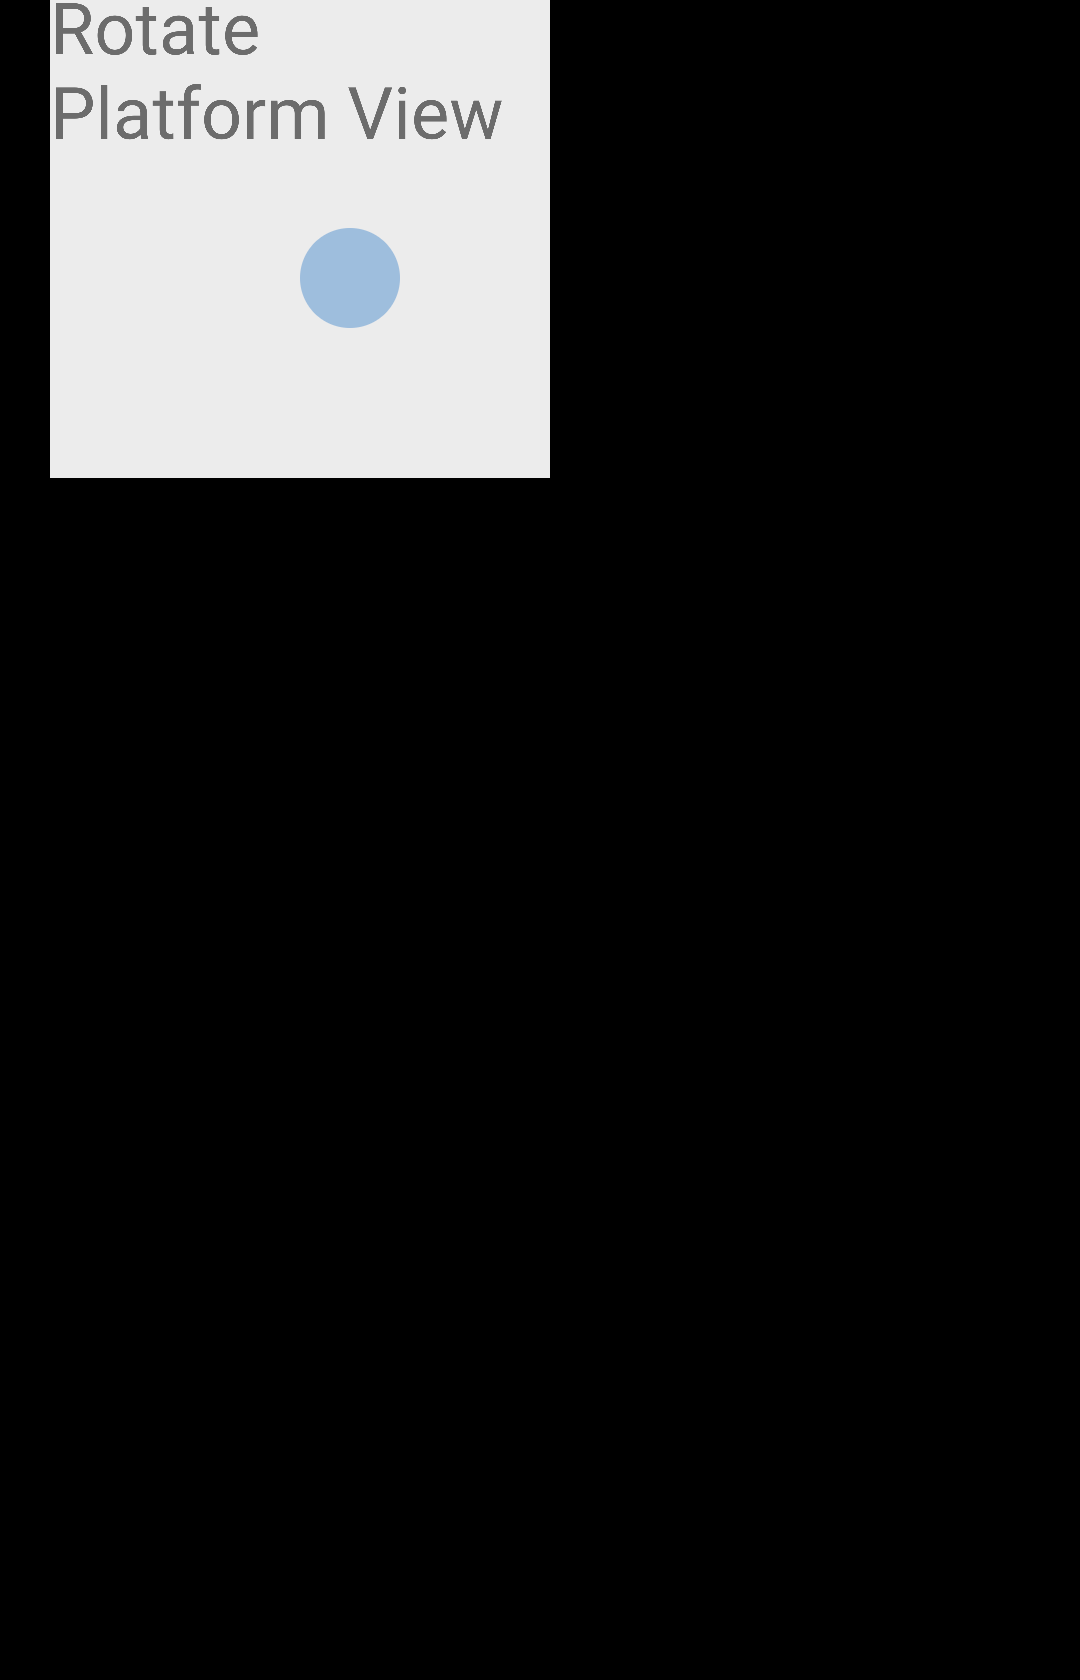
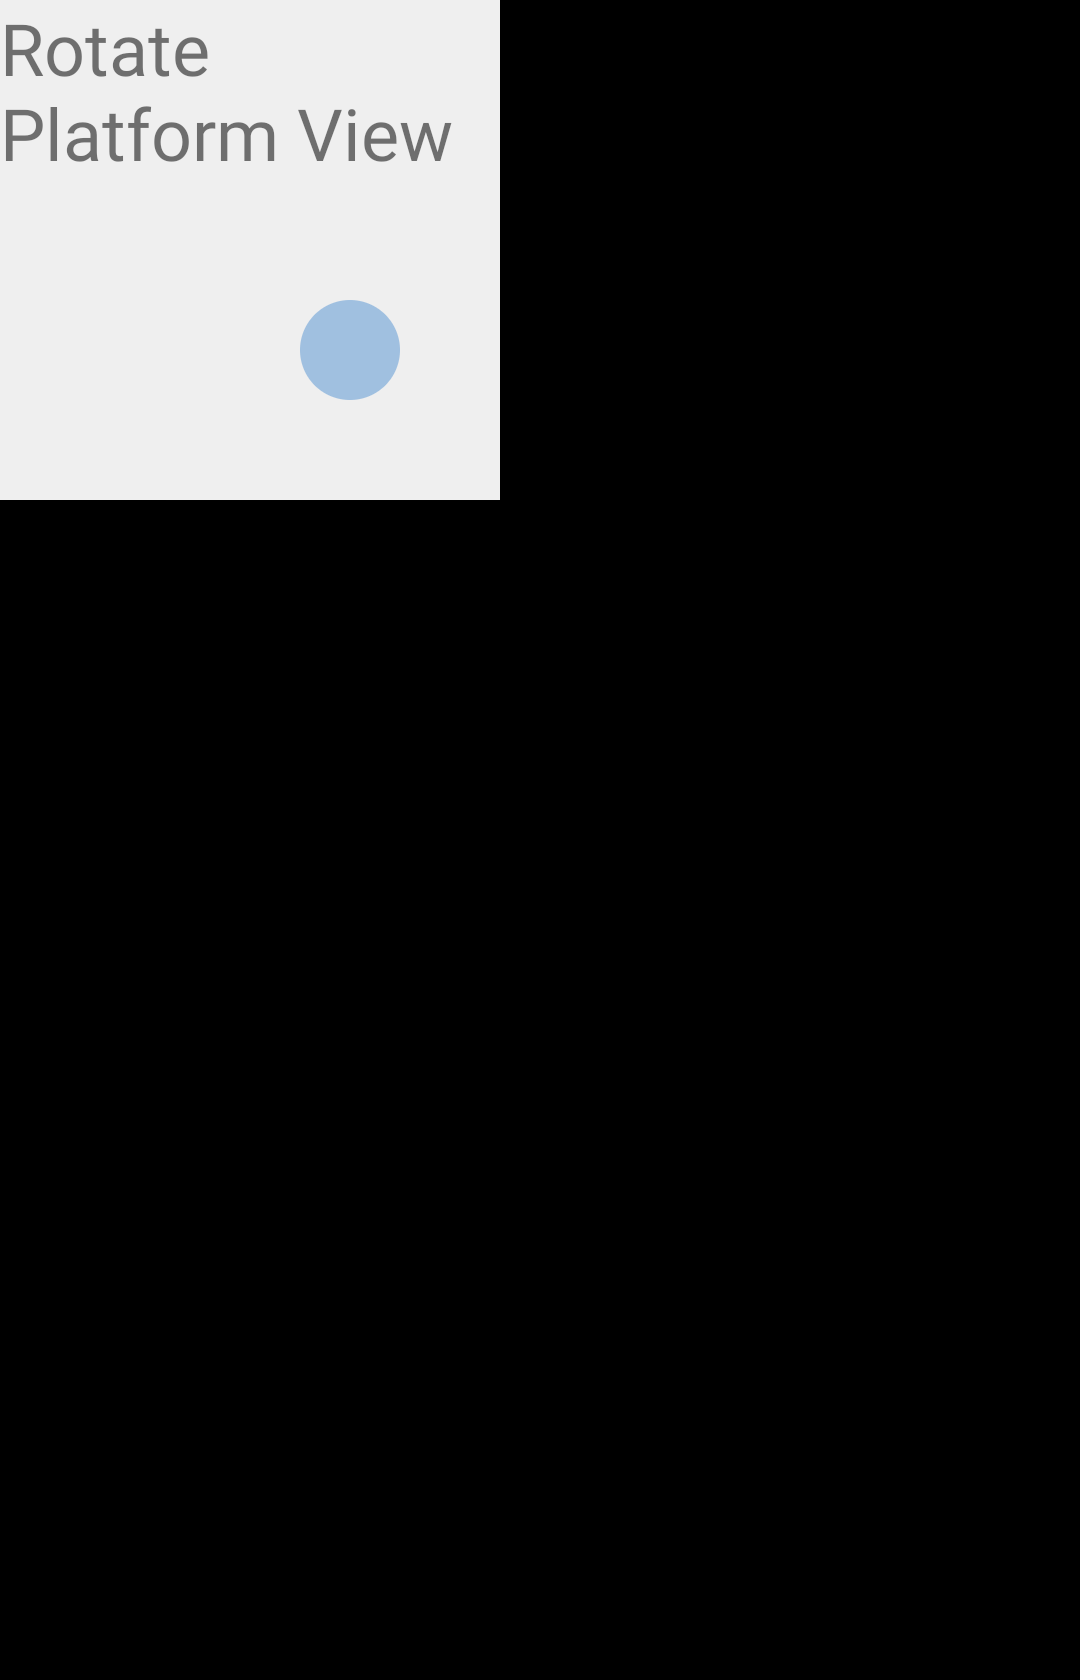
Fix and clean up scenario app for Android (#22540)

Changed region(s): [[0.0, 0.0, 0.5194, 0.3095], [0.275, 0.1238, 0.3667, 0.2476]]

diff --git a/testing/scenario_app/lib/src/platform_view.dart b/testing/scenario_app/lib/src/platform_view.dart
@@ -46,8 +46,6 @@ class PlatformViewScenario extends Scenario with _BasePlatformViewScenarioMixin 
   void onBeginFrame(Duration duration) {
     final SceneBuilder builder = SceneBuilder();
 
-    builder.pushOffset(0, 0);
-
     finishBuilderByAddingPlatformViewAndPicture(builder, id);
   }
 }
@@ -69,8 +67,6 @@ class PlatformViewNoOverlayIntersectionScenario extends Scenario with _BasePlatf
   @override
   void onBeginFrame(Duration duration) {
     final SceneBuilder builder = SceneBuilder();
-
-    builder.pushOffset(0, 0);
 
     finishBuilderByAddingPlatformViewAndPicture(
       builder,
@@ -98,8 +94,6 @@ class PlatformViewPartialIntersectionScenario extends Scenario with _BasePlatfor
   void onBeginFrame(Duration duration) {
     final SceneBuilder builder = SceneBuilder();
 
-    builder.pushOffset(0, 0);
-
     finishBuilderByAddingPlatformViewAndPicture(
       builder,
       id,
@@ -125,8 +119,6 @@ class PlatformViewTwoIntersectingOverlaysScenario extends Scenario with _BasePla
   @override
   void onBeginFrame(Duration duration) {
     final SceneBuilder builder = SceneBuilder();
-
-    builder.pushOffset(0, 0);
 
     _addPlatformViewToScene(builder, id, 500, 500);
     final PictureRecorder recorder = PictureRecorder();
@@ -166,8 +158,6 @@ class PlatformViewOneOverlayTwoIntersectingOverlaysScenario extends Scenario wit
   @override
   void onBeginFrame(Duration duration) {
     final SceneBuilder builder = SceneBuilder();
-
-    builder.pushOffset(0, 0);
 
     _addPlatformViewToScene(builder, id, 500, 500);
     final PictureRecorder recorder = PictureRecorder();
@@ -217,8 +207,6 @@ class MultiPlatformViewWithoutOverlaysScenario extends Scenario with _BasePlatfo
   void onBeginFrame(Duration duration) {
     final SceneBuilder builder = SceneBuilder();
 
-    builder.pushOffset(0, 0);
-
     builder.pushOffset(0, 600);
     _addPlatformViewToScene(builder, firstId, 500, 500);
     builder.pop();
@@ -258,8 +246,6 @@ class PlatformViewMaxOverlaysScenario extends Scenario with _BasePlatformViewSce
   @override
   void onBeginFrame(Duration duration) {
     final SceneBuilder builder = SceneBuilder();
-
-    builder.pushOffset(0, 0);
 
     _addPlatformViewToScene(builder, id, 500, 500);
     final PictureRecorder recorder = PictureRecorder();
@@ -314,8 +300,6 @@ class MultiPlatformViewScenario extends Scenario with _BasePlatformViewScenarioM
   void onBeginFrame(Duration duration) {
     final SceneBuilder builder = SceneBuilder();
 
-    builder.pushOffset(0, 0);
-
     builder.pushOffset(0, 600);
     _addPlatformViewToScene(builder, firstId, 500, 500);
     builder.pop();
@@ -357,13 +341,13 @@ class MultiPlatformViewBackgroundForegroundScenario extends Scenario with _BaseP
   void _firstFrame() {
     final SceneBuilder builder = SceneBuilder();
 
-    builder.pushOffset(0, 0);
-
-    builder.pushOffset(0, 600);
+    builder.pushOffset(50, 600);
     _addPlatformViewToScene(builder, firstId, 500, 500);
     builder.pop();
 
+    builder.pushOffset(50, 0);
     _addPlatformViewToScene(builder, secondId, 500, 500);
+    builder.pop();
 
     final PictureRecorder recorder = PictureRecorder();
     final Canvas canvas = Canvas(recorder);
@@ -374,7 +358,6 @@ class MultiPlatformViewBackgroundForegroundScenario extends Scenario with _BaseP
     final Picture picture = recorder.endRecording();
     builder.addPicture(const Offset(0, 0), picture);
 
-    builder.pop();
     final Scene scene = builder.build();
     window.render(scene);
     scene.dispose();
@@ -383,13 +366,12 @@ class MultiPlatformViewBackgroundForegroundScenario extends Scenario with _BaseP
   void _secondFrame() {
     final SceneBuilder builder = SceneBuilder();
 
-    builder.pushOffset(0, 0);
-
     builder.pushOffset(0, 600);
     _addPlatformViewToScene(builder, firstId, 500, 500);
     builder.pop();
 
     _addPlatformViewToScene(builder, secondId, 500, 500);
+
     final Scene scene = builder.build();
     window.render(scene);
     scene.dispose();
@@ -430,9 +412,10 @@ class PlatformViewClipRectScenario extends Scenario with _BasePlatformViewScenar
 
   @override
   void onBeginFrame(Duration duration) {
-    final SceneBuilder builder = SceneBuilder();
-    builder.pushOffset(0, 0);
-    builder.pushClipRect(const Rect.fromLTRB(100, 100, 400, 400));
+    final SceneBuilder builder =
+      SceneBuilder()
+      ..pushClipRect(const Rect.fromLTRB(100, 100, 400, 400));
+
     finishBuilderByAddingPlatformViewAndPicture(builder, id);
   }
 }
@@ -446,8 +429,6 @@ class PlatformViewClipRRectScenario extends PlatformViewScenario {
   @override
   void onBeginFrame(Duration duration) {
     final SceneBuilder builder = SceneBuilder();
-
-    builder.pushOffset(0, 0);
     builder.pushClipRRect(
       RRect.fromLTRBAndCorners(
         100,
@@ -471,18 +452,14 @@ class PlatformViewClipPathScenario extends PlatformViewScenario {
 
   @override
   void onBeginFrame(Duration duration) {
-    final SceneBuilder builder = SceneBuilder();
-
-    builder.pushOffset(0, 0);
-
     final Path path = Path()
       ..moveTo(100, 100)
       ..quadraticBezierTo(50, 250, 100, 400)
       ..lineTo(350, 400)
       ..cubicTo(400, 300, 300, 200, 350, 100)
       ..close();
-    builder.pushClipPath(path);
 
+    final SceneBuilder builder = SceneBuilder()..pushClipPath(path);
     finishBuilderByAddingPlatformViewAndPicture(builder, id);
   }
 }
@@ -495,15 +472,12 @@ class PlatformViewTransformScenario extends PlatformViewScenario {
 
   @override
   void onBeginFrame(Duration duration) {
-    final SceneBuilder builder = SceneBuilder();
-
-    builder.pushOffset(0, 0);
     final Matrix4 matrix4 = Matrix4.identity()
       ..rotateZ(1)
       ..scale(0.5, 0.5, 1.0)
       ..translate(1000.0, 100.0, 0.0);
 
-    builder.pushTransform(matrix4.storage);
+    final SceneBuilder builder = SceneBuilder()..pushTransform(matrix4.storage);
 
     finishBuilderByAddingPlatformViewAndPicture(builder, id);
   }
@@ -517,11 +491,7 @@ class PlatformViewOpacityScenario extends PlatformViewScenario {
 
   @override
   void onBeginFrame(Duration duration) {
-    final SceneBuilder builder = SceneBuilder();
-
-    builder.pushOffset(0, 0);
-    builder.pushOpacity(150);
-
+    final SceneBuilder builder = SceneBuilder()..pushOpacity(150);
     finishBuilderByAddingPlatformViewAndPicture(builder, id);
   }
 }
@@ -600,15 +570,11 @@ class PlatformViewForTouchIOSScenario extends Scenario
 
   void _firstFrame() {
     final SceneBuilder builder = SceneBuilder();
-
-    builder.pushOffset(0, 0);
     finishBuilderByAddingPlatformViewAndPicture(builder, _viewId);
   }
 
   void _secondFrame() {
-    final SceneBuilder builder = SceneBuilder();
-
-    builder.pushOffset(5, 5);
+    final SceneBuilder builder = SceneBuilder()..pushOffset(5, 5);
     finishBuilderByAddingPlatformViewAndPicture(builder, _viewId);
   }
 }

diff --git a/testing/scenario_app/android/app/src/androidTest/java/dev/flutter/scenariosui/ScreenshotUtil.java b/testing/scenario_app/android/app/src/androidTest/java/dev/flutter/scenariosui/ScreenshotUtil.java
@@ -4,8 +4,6 @@
 
 package dev.flutter.scenariosui;
 
-import android.app.Activity;
-import android.content.Context;
 import android.graphics.Bitmap;
 import android.os.Bundle;
 import android.os.Handler;
@@ -129,28 +127,6 @@ public class ScreenshotUtil {
     album = null;
   }
 
-  private static int getStatusBarHeight() {
-    final Context context = InstrumentationRegistry.getTargetContext();
-    // Resource name defined in
-    // https://android.googlesource.com/platform/frameworks/base/+/master/core/res/res/values/dimens.xml#34
-    final int resourceId =
-        context.getResources().getIdentifier("status_bar_height", "dimen", "android");
-    int statusBarHeight = 0;
-    if (resourceId > 0) {
-      statusBarHeight = context.getResources().getDimensionPixelSize(resourceId);
-    }
-    return statusBarHeight;
-  }
-
-  private static int getActionBarHeight(Activity activity) {
-    int actionBarHeight = 0;
-    final android.content.res.TypedArray styledAttributes =
-        activity.getTheme().obtainStyledAttributes(new int[] {android.R.attr.actionBarSize});
-    actionBarHeight = (int) styledAttributes.getDimension(0, 0);
-    styledAttributes.recycle();
-    return actionBarHeight;
-  }
-
   /**
    * Captures a screenshot of {@code TestableFlutterActivity}.
    *
@@ -182,13 +158,7 @@ public class ScreenshotUtil {
             Bitmap bitmap =
                 InstrumentationRegistry.getInstrumentation().getUiAutomation().takeScreenshot();
             // Remove the status and action bars from the screenshot capture.
-            bitmap =
-                Bitmap.createBitmap(
-                    bitmap,
-                    0,
-                    getStatusBarHeight(),
-                    bitmap.getWidth(),
-                    bitmap.getHeight() - getStatusBarHeight() - getActionBarHeight(activity));
+            bitmap = Bitmap.createBitmap(bitmap, 0, 0, bitmap.getWidth(), bitmap.getHeight());
 
             final String screenshotName = String.format("%s__%s", testClass, testName);
             // Write bitmap to the album.

diff --git a/testing/scenario_app/ios/Scenarios/ScenariosUITests/UnobstructedPlatformViewTests.m b/testing/scenario_app/ios/Scenarios/ScenariosUITests/UnobstructedPlatformViewTests.m
@@ -195,30 +195,30 @@
 
   XCUIElement* platform_view1 = app.textViews[@"platform_view[0]"];
   XCTAssertTrue([platform_view1 waitForExistenceWithTimeout:1.0]);
-  XCTAssertEqual(platform_view1.frame.origin.x, 25);
+  XCTAssertEqual(platform_view1.frame.origin.x, 50);
   XCTAssertEqual(platform_view1.frame.origin.y, 325);
   XCTAssertEqual(platform_view1.frame.size.width, 250);
   XCTAssertEqual(platform_view1.frame.size.height, 250);
 
   XCUIElement* platform_view2 = app.textViews[@"platform_view[1]"];
   XCTAssertTrue(platform_view2.exists);
-  XCTAssertEqual(platform_view2.frame.origin.x, 25);
+  XCTAssertEqual(platform_view2.frame.origin.x, 50);
   XCTAssertEqual(platform_view2.frame.origin.y, 25);
   XCTAssertEqual(platform_view2.frame.size.width, 250);
   XCTAssertEqual(platform_view2.frame.size.height, 250);
 
   XCUIElement* overlay1 = app.otherElements[@"platform_view[0].overlay[0]"];
   XCTAssertTrue(overlay1.exists);
-  XCTAssertEqual(overlay1.frame.origin.x, 25);
+  XCTAssertEqual(overlay1.frame.origin.x, 50);
   XCTAssertEqual(overlay1.frame.origin.y, 325);
-  XCTAssertEqual(overlay1.frame.size.width, 225);
+  XCTAssertEqual(overlay1.frame.size.width, 200);
   XCTAssertEqual(overlay1.frame.size.height, 175);
 
   XCUIElement* overlay2 = app.otherElements[@"platform_view[1].overlay[0]"];
   XCTAssertTrue(overlay2.exists);
-  XCTAssertEqual(overlay2.frame.origin.x, 25);
+  XCTAssertEqual(overlay2.frame.origin.x, 50);
   XCTAssertEqual(overlay2.frame.origin.y, 25);
-  XCTAssertEqual(overlay2.frame.size.width, 225);
+  XCTAssertEqual(overlay2.frame.size.width, 200);
   XCTAssertEqual(overlay2.frame.size.height, 250);
 }
 

diff --git a/testing/scenario_app/README.md b/testing/scenario_app/README.md
@@ -46,7 +46,7 @@ The test is run on a x86 emulator. To run the test locally, you must create an e
 
 ```
 hw.lcd.density = 480
-hw.lcd.height = 1920
+hw.lcd.height = 1680
 hw.lcd.width = 1080
 lcd.depth = 16
 ```
